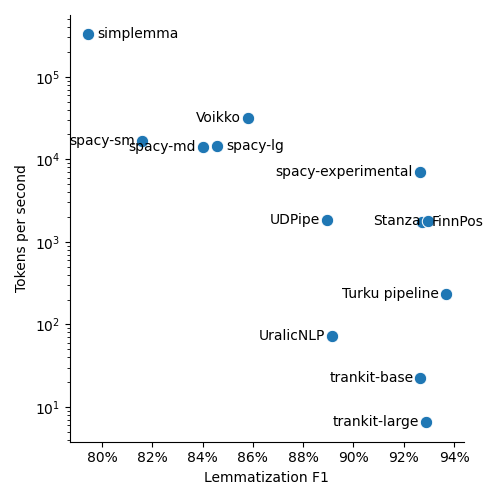
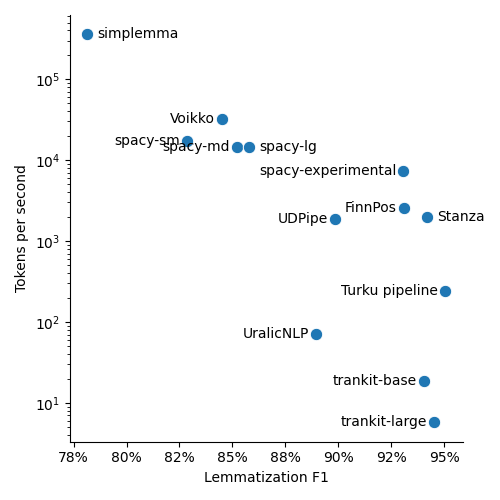
Concatenate the testsets instead of averaging the results
This increases the POS F1 for many models because they perform
particularly well on UD_Finnish_TDT and it is a relatively large
testset.

diff --git a/plot_results.py b/plot_results.py
@@ -35,13 +35,16 @@ def main():
 
     # Leave out the FinnPos evaluation on ftb1u, because ftb1u is the
     # training set for FinnPos
-    results = full_results[~((full_results['Model'] == 'FinnPos') &
-                             (full_results['Dataset'] == 'ftb1u'))]
+    full_results = full_results[~((full_results['Model'] == 'FinnPos') &
+                                (full_results['Dataset'] == 'ftb1u'))]
 
-    model_order = sorted(results['Model'].unique())
+    results_by_testset = full_results[full_results['Dataset'] != 'concatenated']
+    results_concatenated = full_results[full_results['Dataset'] == 'concatenated']
+
+    model_order = sorted(results_by_testset['Model'].unique())
 
     sns.barplot(x='Model', y='Lemmatization F1', hue='Dataset',
-                data=full_results, order=model_order)
+                data=results_by_testset, order=model_order)
     plt.gca().yaxis.set_major_formatter(mtick.PercentFormatter(1, decimals=0))
     for tick in plt.gca().xaxis.get_major_ticks():
         tick.label.set_fontsize(9)
@@ -51,7 +54,7 @@ def main():
     plt.savefig(imagedir / 'lemma_f1_by_dataset.png')
     plt.close()
 
-    sns.barplot(x='Model', y='Lemmatization precision', data=results,
+    sns.barplot(x='Model', y='Lemmatization precision', data=results_by_testset,
                 hue='Dataset', order=model_order)
     for tick in plt.gca().xaxis.get_major_ticks():
         tick.label.set_fontsize(9)
@@ -61,7 +64,7 @@ def main():
     plt.savefig(imagedir / 'lemma_precision_by_dataset.png')
     plt.close()
 
-    sns.barplot(x='Model', y='Lemmatization recall', data=results,
+    sns.barplot(x='Model', y='Lemmatization recall', data=results_by_testset,
                 hue='Dataset', order=model_order)
     for tick in plt.gca().xaxis.get_major_ticks():
         tick.label.set_fontsize(9)
@@ -71,7 +74,7 @@ def main():
     plt.savefig(imagedir / 'lemma_recall_by_dataset.png')
     plt.close()
 
-    sns.barplot(x='Model', y='Lemmatization aligned accuracy', data=results, order=model_order)
+    sns.barplot(x='Model', y='Lemmatization aligned accuracy', data=results_concatenated, order=model_order)
     plt.gca().yaxis.set_major_formatter(mtick.PercentFormatter(1, decimals=0))
     for tick in plt.gca().xaxis.get_major_ticks():
         tick.label.set_fontsize(9)
@@ -81,7 +84,7 @@ def main():
     plt.savefig(imagedir / 'lemma_acc.png')
     plt.close()
 
-    sns.barplot(x='Model', y='Lemmatization F1', data=results, order=model_order)
+    sns.barplot(x='Model', y='Lemmatization F1', data=results_concatenated, order=model_order)
     for tick in plt.gca().xaxis.get_major_ticks():
         tick.label.set_fontsize(9)
     plt.xticks(rotation=70)
@@ -91,7 +94,7 @@ def main():
     plt.close()
 
     sns.barplot(x='Model', y='Part-of-speech F1', hue='Dataset',
-                data=full_results, order=model_order)
+                data=results_by_testset, order=model_order)
     plt.gca().yaxis.set_major_formatter(mtick.PercentFormatter(1, decimals=0))
     for tick in plt.gca().xaxis.get_major_ticks():
         tick.label.set_fontsize(9)
@@ -102,7 +105,7 @@ def main():
     plt.close()
 
     sns.barplot(x='Model', y='Part-of-speech precision', hue='Dataset',
-                data=full_results, order=model_order)
+                data=results_by_testset, order=model_order)
     plt.gca().yaxis.set_major_formatter(mtick.PercentFormatter(1, decimals=0))
     for tick in plt.gca().xaxis.get_major_ticks():
         tick.label.set_fontsize(9)
@@ -113,7 +116,7 @@ def main():
     plt.close()
 
     sns.barplot(x='Model', y='Part-of-speech recall', hue='Dataset',
-                data=full_results, order=model_order)
+                data=results_by_testset, order=model_order)
     plt.gca().yaxis.set_major_formatter(mtick.PercentFormatter(1, decimals=0))
     for tick in plt.gca().xaxis.get_major_ticks():
         tick.label.set_fontsize(9)
@@ -123,7 +126,7 @@ def main():
     plt.savefig(imagedir / 'pos_recall_by_dataset.png')
     plt.close()
 
-    sns.barplot(x='Model', y='Part-of-speech aligned accuracy', data=results, order=model_order)
+    sns.barplot(x='Model', y='Part-of-speech aligned accuracy', data=results_concatenated, order=model_order)
     plt.gca().yaxis.set_major_formatter(mtick.PercentFormatter(1, decimals=0))
     for tick in plt.gca().xaxis.get_major_ticks():
         tick.label.set_fontsize(9)
@@ -133,7 +136,7 @@ def main():
     plt.savefig(imagedir / 'pos_acc.png')
     plt.close()
 
-    sns.barplot(x='Model', y='Part-of-speech F1', data=results, order=model_order)
+    sns.barplot(x='Model', y='Part-of-speech F1', data=results_concatenated, order=model_order)
     for tick in plt.gca().xaxis.get_major_ticks():
         tick.label.set_fontsize(9)
     plt.xticks(rotation=70)
@@ -142,15 +145,13 @@ def main():
     plt.savefig(imagedir / 'pos_f1.png')
     plt.close()
 
-    results_by_model = results.groupby('Model').mean().reset_index()
-
     label_left_lemma = ['Stanza', 'simplemma', 'spacy-lg']
 
     sns.relplot(x='Lemmatization F1', y='Tokens per second',
-                data=results_by_model, s=80)
-    for x, y, text in zip(results_by_model['Lemmatization F1'],
-                          results_by_model['Tokens per second'],
-                          results_by_model['Model']):
+                data=results_concatenated, s=80)
+    for x, y, text in zip(results_concatenated['Lemmatization F1'],
+                          results_concatenated['Tokens per second'],
+                          results_concatenated['Model']):
         ha = 'left' if text in label_left_lemma else 'right'
         textrelx = 7 if ha == 'left' else -5
         plt.annotate(text, (x, y), xytext=(textrelx, 0), textcoords='offset points',
@@ -164,10 +165,10 @@ def main():
     label_left_lemma = ['FinnPos', 'simplemma', 'spacy-lg']
 
     sns.relplot(x='Lemmatization aligned accuracy', y='Tokens per second',
-                data=results_by_model, s=80)
-    for x, y, text in zip(results_by_model['Lemmatization aligned accuracy'],
-                          results_by_model['Tokens per second'],
-                          results_by_model['Model']):
+                data=results_concatenated, s=80)
+    for x, y, text in zip(results_concatenated['Lemmatization aligned accuracy'],
+                          results_concatenated['Tokens per second'],
+                          results_concatenated['Model']):
         ha = 'left' if text in label_left_lemma else 'right'
         textrelx = 7 if ha == 'left' else -5
         plt.annotate(text, (x, y), xytext=(textrelx, 0), textcoords='offset points',
@@ -181,10 +182,10 @@ def main():
     label_left_pos = ['Voikko', 'Stanza', 'spacy-lg']
 
     sns.relplot(x='Part-of-speech F1', y='Tokens per second',
-                data=results_by_model, s=80)
-    for x, y, text in zip(results_by_model['Part-of-speech F1'],
-                          results_by_model['Tokens per second'],
-                          results_by_model['Model']):
+                data=results_concatenated, s=80)
+    for x, y, text in zip(results_concatenated['Part-of-speech F1'],
+                          results_concatenated['Tokens per second'],
+                          results_concatenated['Model']):
         ha = 'left' if text in label_left_pos else 'right'
         textrelx = 7 if ha == 'left' else -5
         plt.annotate(text, (x, y), xytext=(textrelx, 0), textcoords='offset points',
@@ -196,10 +197,10 @@ def main():
     plt.close()
 
     sns.relplot(x='Part-of-speech aligned accuracy', y='Tokens per second',
-                data=results_by_model, s=80)
-    for x, y, text in zip(results_by_model['Part-of-speech aligned accuracy'],
-                          results_by_model['Tokens per second'],
-                          results_by_model['Model']):
+                data=results_concatenated, s=80)
+    for x, y, text in zip(results_concatenated['Part-of-speech aligned accuracy'],
+                          results_concatenated['Tokens per second'],
+                          results_concatenated['Model']):
         ha = 'left' if text in label_left_pos else 'right'
         textrelx = 7 if ha == 'left' else -5
         plt.annotate(text, (x, y), xytext=(textrelx, 0), textcoords='offset points',
@@ -209,6 +210,13 @@ def main():
     plt.tight_layout()
     plt.savefig(imagedir / 'pos_acc_speed.png')
     plt.close()
+
+    # For comparing with the results published by Stanza, Trankit and Spacy
+    print('Results on UD_Finnish_TDT:')
+    ud_results = results_by_testset[results_by_testset['Dataset'] == 'UD_Finnish_TDT']
+    print(ud_results[['Model', 'Dataset', 'Part-of-speech F1', 'Lemmatization F1']]
+          .sort_values('Model')
+          .to_string(index=False))
 
 
 if __name__ == '__main__':

diff --git a/evaluate.py b/evaluate.py
@@ -1,3 +1,4 @@
+import io
 import json
 import logging
 import conll18_ud_eval
@@ -19,7 +20,7 @@ def main():
     evaluation_results = []
     for model_result_dir in model_result_dirs:
         model_name = model_result_dir.stem
-        testset_files = model_result_dir.glob('*.conllu')
+        testset_files = list(model_result_dir.glob('*.conllu'))
         for testset_file in testset_files:
             testset_name = testset_file.stem
             metadata_file = model_result_dir / f'{testset_name}.json'
@@ -27,28 +28,89 @@ def main():
             print()
             print(f'Evaluating {model_name} on {testset_name}')
 
-            metrics = evaluate_model(testset_file, gold_path(testset_name), metadata_file)
+            metrics = evaluate_model_files(gold_path(testset_name), testset_file, metadata_file)
 
             print(f'Lemma F1: {metrics["Lemmatization F1"]:.3f}')
             print(f'UPOS F1: {metrics["UPOS F1"]:.3f}')
             print(f'Duration: {metrics["Duration"]:.1f} s '
-                  f'({metrics["Sentences per second"]:.1f} sentences/s)')
+                  f'({metrics["Tokens per second"]:.1f} tokens/s)')
 
             metrics['Model'] = model_name
             metrics['Dataset'] = testset_name
 
             evaluation_results.append(metrics)
 
+        print()
+        print(f'Evaluating {model_name} on concatenated datasets')
+
+        data_files = [
+            (gold_path(tfile.stem), tfile, model_result_dir / f'{tfile.stem}.json')
+            for tfile in testset_files
+        ]
+        metrics = evaluate_concatenated(data_files)
+
+        print(f'Lemma F1: {metrics["Lemmatization F1"]:.3f}')
+        print(f'UPOS F1: {metrics["UPOS F1"]:.3f}')
+        print(f'Duration: {metrics["Duration"]:.1f} s '
+              f'({metrics["Tokens per second"]:.1f} tokens/s)')
+
+        metrics['Model'] = model_name
+        metrics['Dataset'] = 'concatenated'
+
+        evaluation_results.append(metrics)
+
     df = pd.DataFrame(evaluation_results)
     df.to_csv(outputdir / f'evaluation.csv', index=False)
 
 
-def evaluate_model(predictions_file, gold_file, metadata_file):
+def evaluate_model_files(gold_file, predictions_file, metadata_file):
     with metadata_file.open() as meta:
         metadata = json.load(meta)
 
-    gold_ud = lowercase_lemmas(conll18_ud_eval.load_conllu_file(gold_file))
-    system_ud = lowercase_lemmas(conll18_ud_eval.load_conllu_file(predictions_file))
+    gold_ud = conll18_ud_eval.load_conllu_file(gold_file)
+    system_ud = conll18_ud_eval.load_conllu_file(predictions_file)
+
+    return evaluate_model(gold_ud, system_ud, metadata)
+
+
+def evaluate_concatenated(data_files):
+    metadata = {
+        'duration': 0,
+        'num_sentences': 0,
+        'num_tokens': 0,
+    }
+
+    gold_data = []
+    predictions_data = []
+    for gold_file, predictions_file, metadata_file in data_files:
+        with metadata_file.open() as f:
+            meta = json.load(f)
+            metadata['duration'] += meta['duration']
+            metadata['num_sentences'] += meta['num_sentences']
+            metadata['num_tokens'] += meta['num_tokens']
+
+        with gold_file.open('r', encoding='utf-8') as f:
+            data = f.read()
+            data = ensure_ends_with_empty_line(data)
+            gold_data.append(data)
+
+        with predictions_file.open('r', encoding='utf-8') as f:
+            data = f.read()
+            data = ensure_ends_with_empty_line(data)
+            predictions_data.append(data)
+
+    gold_io = io.StringIO(''.join(gold_data))
+    gold_ud = conll18_ud_eval.load_conllu(gold_io)
+
+    predictions_io = io.StringIO(''.join(predictions_data))
+    system_ud = conll18_ud_eval.load_conllu(predictions_io)
+
+    return evaluate_model(gold_ud, system_ud, metadata)
+
+
+def evaluate_model(gold_ud, system_ud, metadata):
+    gold_ud = lowercase_lemmas(gold_ud)
+    system_ud = lowercase_lemmas(system_ud)
     evaluation = conll18_ud_eval.evaluate(gold_ud, system_ud)
 
     metrics = {}
@@ -82,6 +144,15 @@ def ud_evaluation_to_metrics(evaluation, key_prefix):
         key_prefix + 'recall': recall,
         key_prefix + 'aligned accuracy': aligned_accuracy,
     }
+
+
+def ensure_ends_with_empty_line(text):
+    if text.endswith('\n\n'):
+        return text
+    elif text.endswith('\n'):
+        return text + '\n'
+    else:
+        return text + '\n\n'
 
 
 if __name__ == '__main__':
